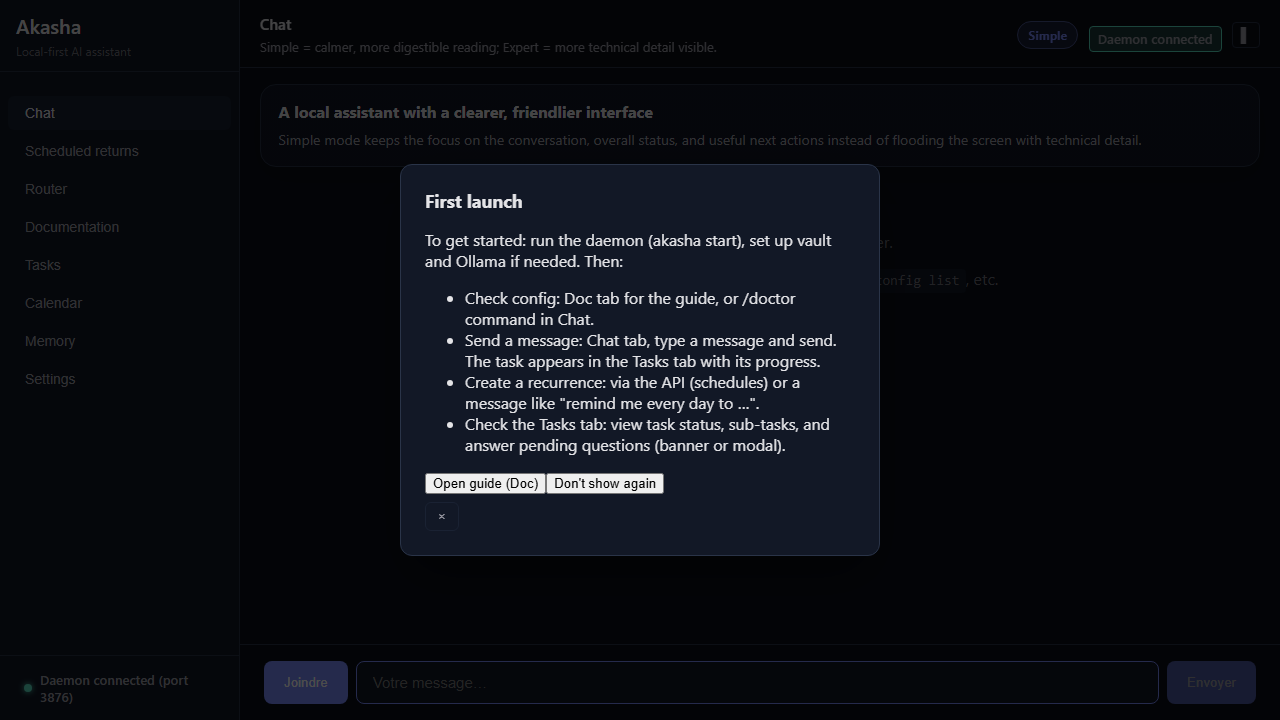
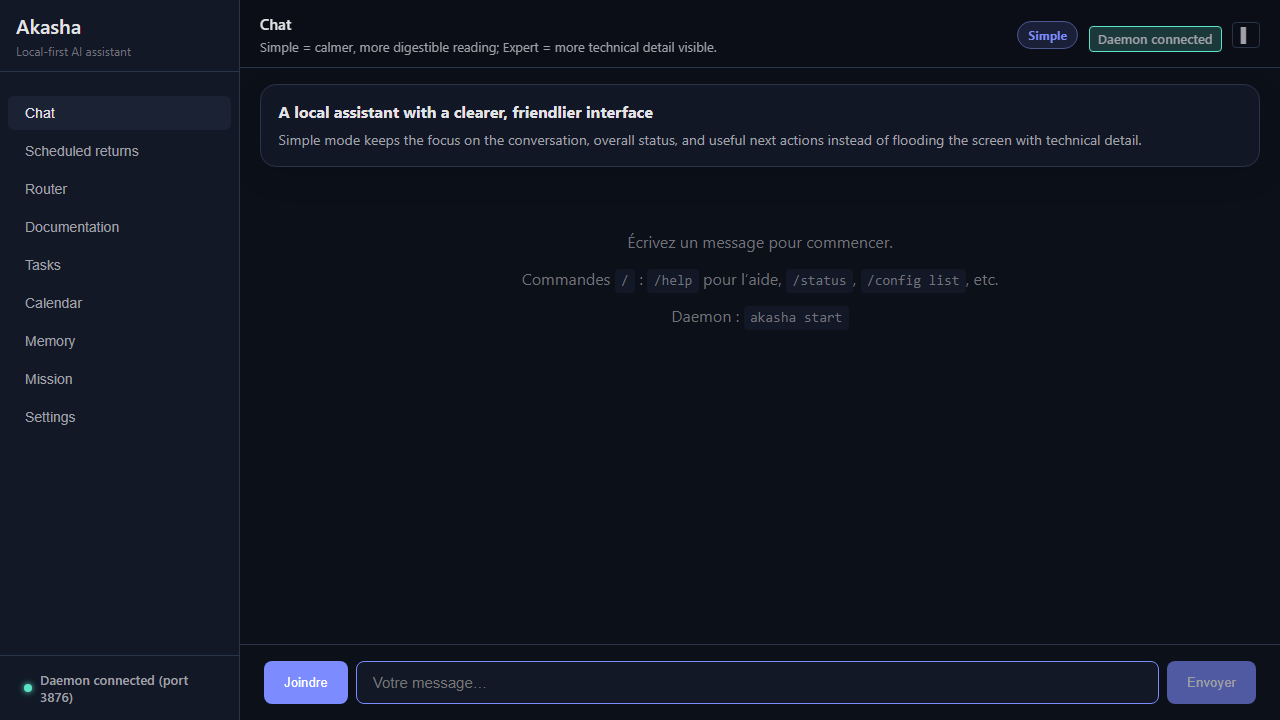
feat(e2e): implement custom Playwright server and enhance E2E tests
- Replaced Vite preview command with a custom Node.js server to handle E2E testing, allowing for proper proxying of requests to the daemon.
- Added initialization script to set local storage for onboarding in E2E tests.
- Updated App component to use a unified function for constructing daemon HTTP URLs, improving code maintainability.
- Modified various fetch calls to utilize the new URL function for better E2E compatibility.
- Updated screenshots to reflect UI changes.

diff --git a/apps/akasha-ui/src/App.tsx b/apps/akasha-ui/src/App.tsx
@@ -12,8 +12,14 @@ import { GeoMapView } from "./GeoMapView";
 const LazyMarkdownContent = lazy(() => import("./MarkdownContent").then((m) => ({ default: m.default })));
 
 const DAEMON_PORT = 3876;
-/** Browser E2E (Playwright): talk to daemon over HTTP instead of Tauri. */
-const E2E_WEB = import.meta.env.VITE_E2E === "true";
+/** Browser E2E (Playwright): talk to daemon over HTTP instead of Tauri. Match VITE_E2E or vite --mode e2e (npm run test:e2e). */
+const E2E_WEB = import.meta.env.VITE_E2E === "true" || import.meta.env.MODE === "e2e";
+/** Same-origin path proxied in vite `server`/`preview` when mode is e2e — avoids cross-port browser blocks (e.g. Chromium PNA on Windows). */
+function e2eDaemonHttpUrl(path: string): string {
+  const p = path.startsWith("/") ? path : `/${path}`;
+  if (E2E_WEB) return `/__e2e_daemon${p}`;
+  return `http://127.0.0.1:${DAEMON_PORT}${p}`;
+}
 const THEME_STORAGE_KEY = "akasha_theme";
 const UI_MODE_STORAGE_KEY = "akasha_ui_mode";
 const AKASHA_SESSION_ID_KEY = "akasha_session_id";
@@ -2050,8 +2056,9 @@ function App() {
   const checkHealth = useCallback(async () => {
     if (E2E_WEB) {
       try {
-        const r = await fetch(`http://127.0.0.1:${DAEMON_PORT}/`);
-        const ok = r.ok && ((await r.json()) as { status?: string })?.status === "ok";
+        const r = await fetch(e2eDaemonHttpUrl("/"));
+        const body = (await r.json()) as { status?: string };
+        const ok = r.ok && body?.status === "ok";
         setHealth((prev) => {
           const next = { ok, port: DAEMON_PORT };
           const unchanged = prev != null && prev.ok === next.ok && prev.port === next.port;
@@ -2557,7 +2564,7 @@ function App() {
     setMissionLoading(true);
     setMissionError(null);
     try {
-      const r = await fetch(`http://127.0.0.1:${DAEMON_PORT}/api/autonomous-mission`);
+      const r = await fetch(e2eDaemonHttpUrl("/api/autonomous-mission"));
       if (r.status === 503) {
         setMissionError("unavailable");
         setMission(null);
@@ -2567,7 +2574,7 @@ function App() {
       if (!r.ok) throw new Error(`HTTP ${r.status}`);
       const j = (await r.json()) as MissionApi;
       setMission(j);
-      const ev = await fetch(`http://127.0.0.1:${DAEMON_PORT}/api/autonomous-mission/events?limit=200`);
+      const ev = await fetch(e2eDaemonHttpUrl("/api/autonomous-mission/events?limit=200"));
       if (ev.ok) {
         const ej = (await ev.json()) as {
           events?: Array<{ id: number; at: string; event_type: string; payload?: unknown }>;
@@ -2628,7 +2635,7 @@ function App() {
     setDocError(null);
     try {
       if (E2E_WEB) {
-        const r = await fetch(`http://127.0.0.1:${DAEMON_PORT}/api/docs`);
+        const r = await fetch(e2eDaemonHttpUrl("/api/docs"));
         if (!r.ok) throw new Error(`HTTP ${r.status}`);
         const j = (await r.json()) as { content?: string };
         const content = j.content ?? "";
@@ -3271,7 +3278,9 @@ function App() {
   // SSE: subscribe to daemon events for real-time updates (< 1s) when daemon is healthy.
   useEffect(() => {
     if (!health?.ok) return;
-    const url = `http://127.0.0.1:${health.port ?? DAEMON_PORT}/api/events`;
+    const url = E2E_WEB
+      ? e2eDaemonHttpUrl("/api/events")
+      : `http://127.0.0.1:${health.port ?? DAEMON_PORT}/api/events`;
     let es: EventSource | null = null;
     try {
       es = new EventSource(url);
@@ -3582,7 +3591,7 @@ function App() {
     setPluginReputationResetMessage(null);
     try {
       const trimmed = (pluginId ?? "").trim();
-      const res = await fetch(`http://127.0.0.1:${DAEMON_PORT}/api/plugins/reputation/reset`, {
+      const res = await fetch(e2eDaemonHttpUrl("/api/plugins/reputation/reset"), {
         method: "POST",
         headers: { "Content-Type": "application/json" },
         body: trimmed ? JSON.stringify({ plugin_id: trimmed }) : JSON.stringify({}),
@@ -5051,7 +5060,7 @@ function App() {
                           const ctx = canvas.getContext("2d");
                           if (ctx) ctx.drawImage(video, 0, 0, w, h, 0, 0, canvas.width, canvas.height);
                           const data = canvas.toDataURL("image/jpeg", 0.85).split(",")[1] ?? "";
-                          const url = `http://127.0.0.1:${DAEMON_PORT}/api/device/result`;
+                          const url = e2eDaemonHttpUrl("/api/device/result");
                           try {
                             const res = await fetch(url, {
                               method: "POST",
@@ -7842,7 +7851,7 @@ function App() {
                     onClick={async () => {
                       setMissionSaving(true);
                       try {
-                        const r = await fetch(`http://127.0.0.1:${DAEMON_PORT}/api/autonomous-mission`, {
+                        const r = await fetch(e2eDaemonHttpUrl("/api/autonomous-mission"), {
                           method: "PUT",
                           headers: { "Content-Type": "application/json" },
                           body: JSON.stringify(mission),
@@ -7865,7 +7874,7 @@ function App() {
                     disabled={missionSaving}
                     onClick={async () => {
                       try {
-                        const r = await fetch(`http://127.0.0.1:${DAEMON_PORT}/api/autonomous-mission/pause`, {
+                        const r = await fetch(e2eDaemonHttpUrl("/api/autonomous-mission/pause"), {
                           method: "POST",
                         });
                         if (!r.ok) throw new Error(`HTTP ${r.status}`);
@@ -7884,7 +7893,7 @@ function App() {
                     disabled={missionSaving}
                     onClick={async () => {
                       try {
-                        const r = await fetch(`http://127.0.0.1:${DAEMON_PORT}/api/autonomous-mission/resume`, {
+                        const r = await fetch(e2eDaemonHttpUrl("/api/autonomous-mission/resume"), {
                           method: "POST",
                         });
                         if (!r.ok) throw new Error(`HTTP ${r.status}`);

diff --git a/apps/akasha-ui/playwright.config.ts b/apps/akasha-ui/playwright.config.ts
@@ -18,9 +18,15 @@ export default defineConfig({
   },
   projects: [{ name: "chromium", use: { ...devices["Desktop Chrome"] } }],
   webServer: {
-    command: "vite preview --host 127.0.0.1 --port 4173 --strictPort",
+    /** Custom server: proxies /__e2e_daemon before SPA (vite preview was serving index.html for that path). */
+    command: "node scripts/e2e-preview.mjs",
     cwd: __dirname,
+    env: {
+      ...process.env,
+      HOST: "127.0.0.1",
+      PORT: "4173",
+    },
     url: "http://127.0.0.1:4173",
-    reuseExistingServer: !process.env.CI,
+    reuseExistingServer: false,
   },
 });

diff --git a/apps/akasha-ui/e2e/smoke.spec.ts b/apps/akasha-ui/e2e/smoke.spec.ts
@@ -16,6 +16,16 @@ function screenshotsDir(): string {
 }
 
 test.describe("Akasha UI (E2E build)", () => {
+  test.beforeEach(async ({ page }) => {
+    await page.addInitScript(() => {
+      try {
+        localStorage.setItem("akasha_onboarding_dismissed", "1");
+      } catch {
+        /* ignore */
+      }
+    });
+  });
+
   test("daemon health and chat shell", async ({ page }) => {
     await page.goto("/");
     await expect(page.locator(".daemon-status-ok")).toBeVisible({ timeout: 120_000 });
